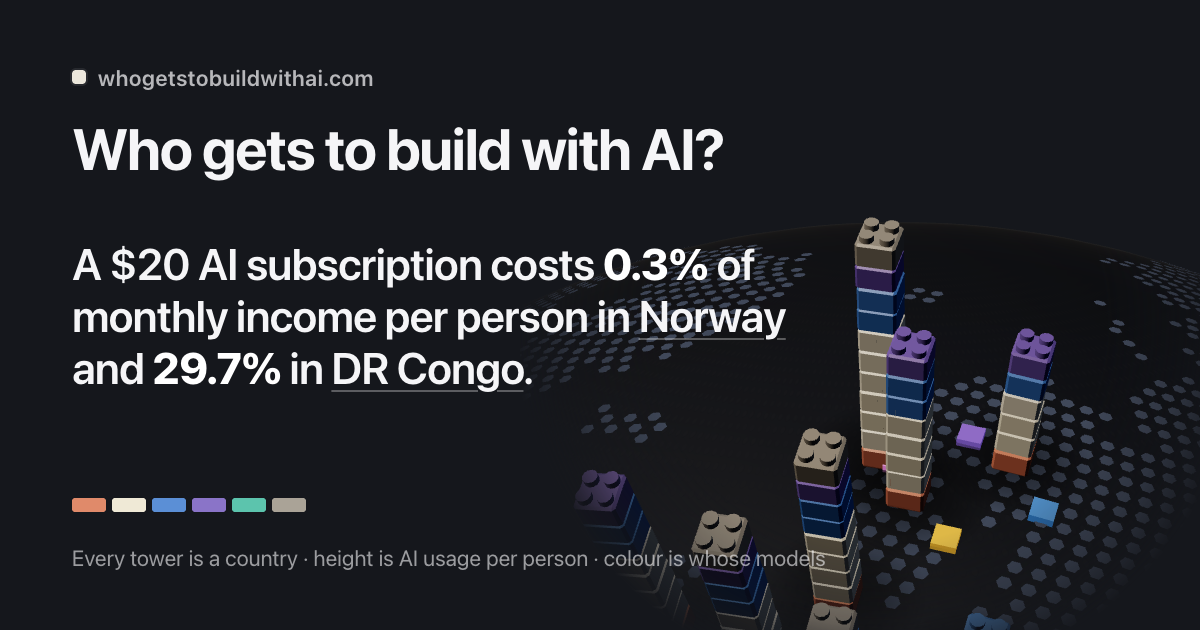
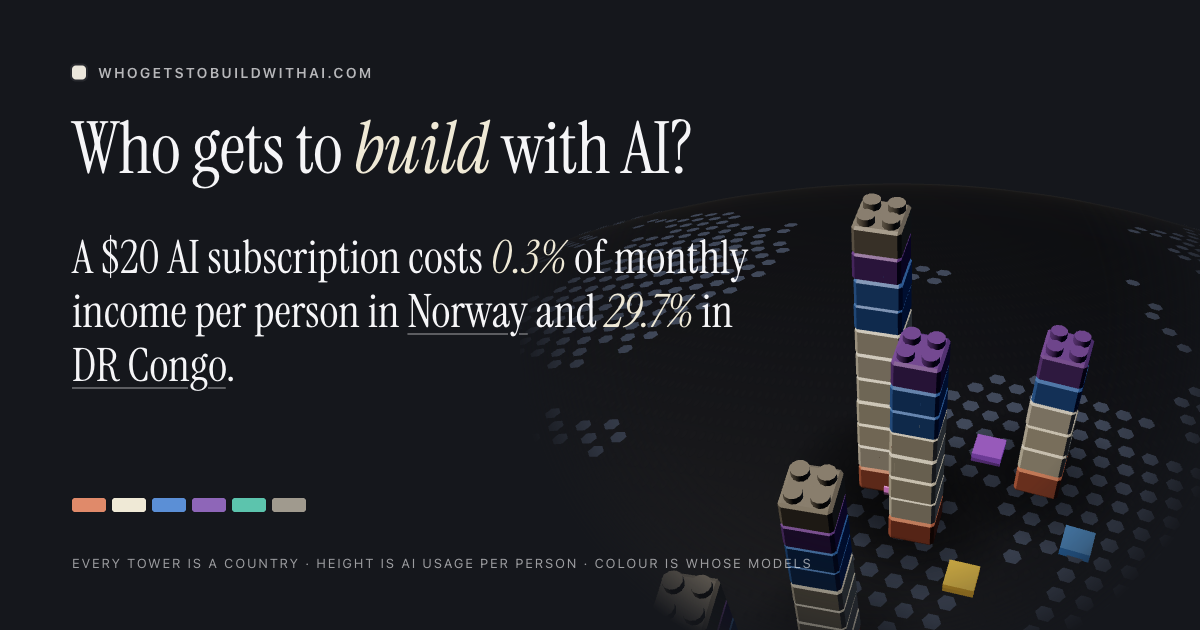
Editorial type and an every.to-style welcome modal
Instrument Serif (Google Fonts, display swap) for the page title, the intro
headline and hero sentence, and the card titles, with one italic emphasis
word; kickers, bylines, the source marker and the buttons in small tracked
uppercase sans; dashed rules between the beats. The intro box becomes a
near-black, square-cornered card with a kicker line, a cream CTA and a byline
(author · sources). The OG card picks up the same type. Reflows at 390 and
360 px without truncating the stat.

diff --git a/styles.css b/styles.css
@@ -2,6 +2,7 @@
     --bg:#15171c; --panel:rgba(24,24,27,0.72); --line:rgba(255,255,255,0.08); --fill:rgba(120,120,128,0.22); --fill-strong:rgba(255,255,255,0.14); --glass:blur(28px) saturate(170%); --shadow:0 12px 40px rgba(0,0,0,.38);
     --text:#f5f5f7; --muted:rgba(245,245,247,0.6); --accent:#f5f5f7; --accent-dim:rgba(255,255,255,0.10);
     --ease:cubic-bezier(.22,.8,.3,1); --panel-w:420px;
+    --serif:"Instrument Serif","Iowan Old Style","Palatino Linotype",Palatino,Georgia,serif; --sans:-apple-system,BlinkMacSystemFont,"Segoe UI",Inter,Roboto,Helvetica,Arial,sans-serif; --rule:1px dashed rgba(255,255,255,.22);
     --c-anthropic:#e08a6a; --c-openai:#efe9d6; --c-google:#5b8fd6; --c-meta:#8e66b8; --c-mistral:#f08a4a; --c-deepseek:#5cc4ad; --c-local:#a09a8e;
     --o-aws:#e6b04a; --o-microsoft:#8fb85a; --o-google:#5b8fd6; --o-meta:#8e66b8; --o-oracle:#e0655a; --o-other:#e08cd8;
   }
@@ -220,6 +221,10 @@
   #pinsvg text.m{fill:var(--muted);font-weight:500;font-size:12px}
   .note{padding:10px 18px 14px;font-size:12px;color:var(--muted);line-height:1.4;border-top:1px solid var(--line)}
 
+  /* editorial type: the big titles are a high-contrast serif (Instrument Serif), labels are small tracked uppercase sans, rules are dashed */
+  #title h1,.ibox h2,.card .top h2,#v-card h2{font-family:var(--serif);font-weight:400;letter-spacing:-0.01em}
+  #title h1 i,.ibox h2 i{font-style:italic;color:#efe9d6}
+  .kicker,.byline{font-family:var(--sans);font-size:11px;letter-spacing:.14em;text-transform:uppercase;color:var(--muted)}
   /* intro: a claim, one line of explanation, one call to action. Shown over #placeholder before the 3D scene is ready. */
   #placeholder{position:fixed;inset:0;z-index:1;pointer-events:none;background:var(--bg);transition:opacity .6s var(--ease)}
   #placeholder i{position:absolute;left:50%;top:50%;width:min(78vmin,760px);height:min(78vmin,760px);transform:translate(-50%,-50%);border-radius:50%;
@@ -230,29 +235,32 @@
   #intro{position:fixed;inset:0;z-index:20;display:flex;align-items:center;justify-content:center;overflow-y:auto;overscroll-behavior:contain;padding:12px 0;background:radial-gradient(ellipse at center,rgba(7,8,12,.55),rgba(7,8,12,.88));backdrop-filter:blur(2px);opacity:0;animation:introIn .6s var(--ease) .2s forwards;transition:opacity .4s var(--ease)}
   #intro.out{opacity:0!important;pointer-events:none}
   body.intro #title,body.intro #hint{opacity:0;transition:none}
-  .ibox{position:relative;max-width:680px;width:calc(100% - 48px);margin:auto;padding:36px 40px 30px;border:1px solid var(--line);border-radius:26px;background:rgba(24,24,27,.9);backdrop-filter:var(--glass);-webkit-backdrop-filter:var(--glass);box-shadow:var(--shadow);text-align:left;overflow:hidden}
-  .ibox h2{font-size:clamp(30px,4.4vw,52px);letter-spacing:-0.03em;font-weight:600;line-height:1.04;opacity:0;animation:rise .6s var(--ease) .4s forwards}
-  .ibox .hero{font-size:clamp(19px,2.2vw,27px);line-height:1.3;letter-spacing:-0.012em;margin:18px 0 0;color:var(--text);overflow-wrap:anywhere;opacity:0;animation:rise .6s var(--ease) .7s forwards}
-  .ibox .hero b{font-weight:700}
+  .ibox{position:relative;max-width:720px;width:calc(100% - 48px);margin:auto;padding:28px 40px 26px;border:1px solid rgba(255,255,255,.16);border-radius:10px;background:#0b0b0d;box-shadow:0 30px 80px rgba(0,0,0,.6);text-align:left;overflow:hidden}
+  .ibox .kicker{padding-bottom:14px;border-bottom:var(--rule);margin-bottom:22px;display:flex;justify-content:space-between;opacity:0;animation:rise .5s var(--ease) .3s forwards}
+  .ibox h2{font-size:clamp(40px,5.6vw,68px);line-height:.98;opacity:0;animation:rise .6s var(--ease) .4s forwards}
+  .ibox .hero{font-family:var(--serif);font-size:clamp(22px,2.5vw,31px);line-height:1.22;letter-spacing:0;margin:20px 0 0;color:var(--text);overflow-wrap:anywhere;opacity:0;animation:rise .6s var(--ease) .7s forwards}
+  .ibox .hero b{font-weight:400;font-style:italic;color:#efe9d6}
   .ibox .hero a{color:var(--text);text-decoration:underline;text-decoration-color:rgba(255,255,255,.35);text-underline-offset:3px;text-decoration-thickness:1.5px;transition:text-decoration-color .2s}
   .ibox .hero a:hover{text-decoration-color:var(--text)}
-  .ibox .hero .src{font-size:12px;color:var(--muted);text-decoration:none;border:1px solid var(--line);border-radius:8px;padding:2px 7px;vertical-align:middle;margin-left:4px;white-space:nowrap}
+  .ibox .hero .src{font-family:var(--sans);font-size:10px;letter-spacing:.14em;text-transform:uppercase;color:var(--muted);text-decoration:none;border:1px solid rgba(255,255,255,.2);border-radius:3px;padding:3px 7px;vertical-align:middle;margin-left:6px;white-space:nowrap}
   .ibox .hero .src:hover{color:var(--text);border-color:rgba(255,255,255,.3)}
-  .ibox .lead{font-size:clamp(14px,1.25vw,17px);color:var(--muted);line-height:1.5;margin:16px 0 24px;max-width:560px;opacity:0;animation:rise .6s var(--ease) 1s forwards}
+  .ibox .lead{font-family:var(--serif);font-size:clamp(16px,1.4vw,19px);color:rgba(245,245,247,.68);line-height:1.4;margin:18px 0 22px;padding-top:18px;border-top:var(--rule);max-width:600px;opacity:0;animation:rise .6s var(--ease) 1s forwards}
   .ibox .cta{display:flex;align-items:center;gap:14px;flex-wrap:wrap;opacity:0;animation:rise .5s var(--ease) 1.3s forwards}
-  #introGo{padding:11px 22px;font-size:16px}
-  .btn.ghost{background:transparent;border:0;color:var(--muted);padding:11px 8px;font-size:14px}
+  #introGo{padding:12px 22px;font-size:12px;letter-spacing:.14em;text-transform:uppercase;font-weight:600;border-radius:4px;background:#efe9d6;color:#0b0b0d;border-color:#efe9d6}
+  #introGo:hover{background:#fff}
+  .btn.ghost{background:transparent;border:0;color:var(--muted);padding:11px 8px;font-size:12px;letter-spacing:.14em;text-transform:uppercase}
   .btn.ghost:hover{color:var(--text);background:transparent}
+  .ibox .byline{display:flex;justify-content:space-between;gap:12px;flex-wrap:wrap;margin-top:24px;padding-top:12px;border-top:var(--rule);opacity:0;animation:rise .5s var(--ease) 1.5s forwards}
   .ibar{position:absolute;left:0;right:0;bottom:0;height:3px;background:rgba(255,255,255,.06)}
   .ibar i{display:block;height:100%;width:100%;background:rgba(255,255,255,.5);transform-origin:left;transform:scaleX(0)}
   #intro.timing .ibar i{transform:none;animation:shrink 9s linear forwards}
   @keyframes introIn{to{opacity:1}}
   @keyframes shrink{to{transform:scaleX(0)}}
   @keyframes rise{from{opacity:0;transform:translateY(10px)}to{opacity:1;transform:none}}
-  @media (max-width:700px){ .ibox{padding:26px 22px 24px;width:calc(100% - 28px)} .ibox .lead{margin:14px 0 20px} }
-  @media (max-width:380px){ .ibox{padding:22px 16px 22px;width:calc(100% - 20px);border-radius:20px} .ibox h2{font-size:28px} .ibox .hero{font-size:18px} .ibox .cta{gap:6px} #introGo{padding:10px 16px;font-size:15px} }
-  @media (max-height:520px){ #intro{padding:8px 0} .ibox{width:calc(100% - 24px);padding:16px 22px 14px;border-radius:20px} .ibox h2{font-size:26px} .ibox .hero{font-size:17px;margin-top:8px} .ibox .lead{font-size:13px;margin:8px 0 12px} #introGo{padding:9px 18px;font-size:15px} }
-  @media (prefers-reduced-motion:reduce){ #intro,.ibox h2,.ibox .hero,.ibox .lead,.ibox .cta{animation:none;opacity:1} .ibar{display:none} }
+  @media (max-width:700px){ .ibox{padding:22px 22px 22px;width:calc(100% - 28px)} .ibox .lead{margin:14px 0 20px;padding-top:14px} .ibox .kicker span:last-child{display:none} }
+  @media (max-width:380px){ .ibox{padding:18px 16px 18px;width:calc(100% - 20px)} .ibox h2{font-size:36px} .ibox .hero{font-size:20px} .ibox .cta{gap:6px} #introGo{padding:10px 16px} .ibox .byline span:last-child{display:none} }
+  @media (max-height:520px){ #intro{padding:8px 0} .ibox{width:calc(100% - 24px);padding:14px 22px 12px} .ibox .kicker{margin-bottom:10px;padding-bottom:8px} .ibox h2{font-size:30px} .ibox .hero{font-size:18px;margin-top:8px} .ibox .lead{font-size:14px;margin:8px 0 12px;padding-top:8px} .ibox .byline{margin-top:10px} }
+  @media (prefers-reduced-motion:reduce){ #intro,.ibox .kicker,.ibox h2,.ibox .hero,.ibox .lead,.ibox .cta,.ibox .byline{animation:none;opacity:1} .ibar{display:none} }
   /* tooltip */
   /* personalised strip at the top of the visitor's own country card; .est is the shared "modelled estimate" styling (methodology panel uses it too) */
   .card .mine{margin:0 0 14px;padding:12px 14px;border-radius:14px;background:var(--fill);border:1px solid var(--line);font-size:14px;line-height:1.45;color:var(--text)}

diff --git a/tools/og-template.html b/tools/og-template.html
@@ -3,19 +3,21 @@
 <head>
 <meta charset="utf-8">
 <title>OG image template</title>
+<link rel="stylesheet" href="https://fonts.googleapis.com/css2?family=Instrument+Serif:ital@0;1&display=swap">
 <style>
   /* 1200×630 link-preview card. Rendered to /og.png by tools/render-og.mjs; edit HERO_STAT in the script block below. */
   html,body{margin:0;width:1200px;height:630px;overflow:hidden;background:#15171c;color:#f5f5f7;font-family:-apple-system,BlinkMacSystemFont,"Segoe UI",Inter,Roboto,Helvetica,Arial,sans-serif;-webkit-font-smoothing:antialiased}
   #card{position:relative;width:1200px;height:630px}
   #tower{position:absolute;right:-40px;top:-40px;width:720px;height:720px;-webkit-mask:radial-gradient(circle at 50% 50%,#000 0 44%,rgba(0,0,0,.6) 60%,transparent 72%);mask:radial-gradient(circle at 50% 50%,#000 0 44%,rgba(0,0,0,.6) 60%,transparent 72%)}
   #tower img{width:100%;height:100%;object-fit:cover;display:block}
-  .wordmark{position:absolute;left:72px;top:64px;font-size:22px;font-weight:600;letter-spacing:.02em;color:rgba(245,245,247,.72);display:flex;align-items:center;gap:12px}
+  .wordmark{position:absolute;left:72px;top:64px;font-size:14px;font-weight:600;letter-spacing:.16em;text-transform:uppercase;color:rgba(245,245,247,.72);display:flex;align-items:center;gap:12px}
   .wordmark i{display:inline-block;width:14px;height:14px;border-radius:4px;background:#ece7dc;box-shadow:0 0 0 2px rgba(255,255,255,.08)}
-  .title{position:absolute;left:72px;top:118px;font-size:58px;font-weight:700;letter-spacing:-.025em;line-height:1.02}
-  .stat{position:absolute;left:72px;top:238px;width:720px;font-size:44px;font-weight:600;letter-spacing:-.02em;line-height:1.18;color:#f5f5f7}
-  .stat b{font-weight:800;color:#fff}
+  .title{position:absolute;left:72px;top:112px;font-family:"Instrument Serif",Georgia,serif;font-size:72px;font-weight:400;letter-spacing:-.01em;line-height:1}
+  .title i{color:#efe9d6}
+  .stat{position:absolute;left:72px;top:230px;width:700px;font-family:"Instrument Serif",Georgia,serif;font-size:46px;font-weight:400;letter-spacing:0;line-height:1.18;color:#f5f5f7}
+  .stat b{font-weight:400;font-style:italic;color:#efe9d6}
   .stat em{font-style:normal;text-decoration:underline;text-decoration-color:rgba(255,255,255,.3);text-underline-offset:6px;text-decoration-thickness:2px}
-  .foot{position:absolute;left:72px;bottom:60px;font-size:22px;color:rgba(245,245,247,.6);display:flex;gap:28px;align-items:center}
+  .foot{position:absolute;left:72px;bottom:60px;font-size:13px;letter-spacing:.14em;text-transform:uppercase;color:rgba(245,245,247,.6);display:flex;gap:28px;align-items:center}
   .foot .url{color:#f5f5f7;font-weight:600}
   .bricks{position:absolute;left:72px;bottom:118px;display:flex;gap:6px}
   .bricks i{display:block;width:34px;height:14px;border-radius:3px}
@@ -27,7 +29,7 @@
   <!-- a real view of the Norway tower, rendered from the exhibit by tools/render-og.mjs (og-tower.png), masked softly into the card -->
   <div id="tower"><img src="og-tower.png" alt=""></div>
   <div class="wordmark"><i></i>whogetstobuildwithai.com</div>
-  <div class="title">Who gets to build with AI?</div>
+  <div class="title">Who gets to <i>build</i> with AI?</div>
   <div class="stat" id="stat"></div>
   <div class="bricks"><i style="background:#e08a6a"></i><i style="background:#efe9d6"></i><i style="background:#5b8fd6"></i><i style="background:#8e66b8"></i><i style="background:#5cc4ad"></i><i style="background:#a09a8e"></i></div>
   <div class="foot"><span>Every tower is a country · height is AI usage per person · colour is whose models</span></div>

diff --git a/index.html b/index.html
@@ -27,6 +27,9 @@
 <link rel="apple-touch-icon" sizes="180x180" href="apple-touch-icon.png">
 <link rel="manifest" href="site.webmanifest">
 <link rel="preconnect" href="https://cdnjs.cloudflare.com" crossorigin>
+<link rel="preconnect" href="https://fonts.googleapis.com">
+<link rel="preconnect" href="https://fonts.gstatic.com" crossorigin>
+<link rel="stylesheet" href="https://fonts.googleapis.com/css2?family=Instrument+Serif:ital@0;1&display=swap">
 <meta name="theme-color" content="#15171c">
 <link rel="stylesheet" href="styles.css">
 </head>
@@ -35,7 +38,7 @@
 <div id="placeholder" aria-hidden="true"><i></i></div>
 
 <div id="title">
-  <h1>Who gets to build with AI?</h1>
+  <h1>Who gets to <i>build</i> with AI?</h1>
   <p>AI usage, spending and infrastructure are concentrated in a handful of countries. Towers show usage per person. Colours show whose models.</p>
   <div id="ticker"><span class="n" id="prompts">0</span><span class="l">AI prompts sent worldwide<br>since you arrived <span class="rate">(≈46,000 / second)</span></span><button id="tickerHide" title="Hide counter (T)" aria-label="Hide counter">×</button></div>
   <button id="tickerShow" title="Show counter (T)">Show prompt counter</button>
@@ -130,10 +133,12 @@
 
 <div id="intro" role="dialog" aria-label="Welcome">
   <div class="ibox">
-    <h2>Who gets to build with AI?</h2>
+    <div class="kicker">An exhibit in plastic bricks · 62 countries</div>
+    <h2>Who gets to <i>build</i> with AI?</h2>
     <p class="hero" id="heroStat">A $20 AI subscription costs <b>0.3%</b> of monthly income per person in <a href="?country=NO" data-iso="NO">Norway</a> and <b>29.7%</b> in <a href="?country=CD" data-iso="CD">DR Congo</a>. <a class="src" id="heroSrc" href="?panel=methodology" title="How this is worked out">source</a></p>
     <p class="lead">Every tower is a country. Height is how much people there use AI. Colour is whose models they're using. Glowing bricks are data centres.</p>
     <div class="cta"><button class="btn primary" id="introGo">See where you stand →</button><button class="btn ghost" id="introExplore">or explore the globe</button></div>
+    <div class="byline"><span>Tessa Verster</span><span>World Bank · Cable.co.uk · Anthropic Economic Index</span></div>
     <div class="ibar"><i></i></div>
   </div>
 </div>

diff --git a/CLAUDE.md b/CLAUDE.md
@@ -38,7 +38,7 @@ Static, no-build exhibit deployed by GitHub Pages from `main` (custom domain in 
 
 ## 7. Styling
 - Tokens on `:root` in `styles.css`: `--bg #15171c`, `--panel`, `--line`, `--fill`, `--text #f5f5f7`, `--muted`, `--accent` (monochrome; no yellow accent), `--ease`, `--panel-w 420px`, plus `--c-*` provider and `--o-*` operator colours, which mirror the ABS-plastic palette in `js/colors.js` (off-white #ece7dc for OpenAI, desaturated hues, warm grey for Local; weakest deuteranopia pair ΔE ≈ 12).
-- Font: system stack (`-apple-system, BlinkMacSystemFont, "Segoe UI", Inter, Roboto, …`). Panels are frosted glass (`backdrop-filter: var(--glass)`), 18px radii, 1px `--line` borders. Phone layout (`max-width:900px portrait` or `max-width:600px`) turns the panel into a bottom sheet.
+- Type: editorial pairing after every.to. Big titles (`#title h1`, intro `h2`, card `h2`) in Instrument Serif (Google Fonts, `--serif`, italic emphasis on one word), labels/kickers/bylines in small tracked uppercase system sans (`--sans`), dashed rules (`--rule`). The intro box is near-black (#0b0b0d), square-cornered (10px), with kicker, dashed rules, cream CTA. Everything else stays on the system sans stack. Panels are frosted glass (`backdrop-filter: var(--glass)`), 18px radii, 1px `--line` borders. Phone layout (`max-width:900px portrait` or `max-width:600px`) turns the panel into a bottom sheet.
 
 ## Testing
 - `NODE_PATH=<dir with puppeteer> node tools/behaviour-check.js out.json [baseline.json]` snapshots the UI (intro, ZA card values, tabs, layers, resetView, `?nointro`) and diffs against a baseline. Use it before and after any refactor.
